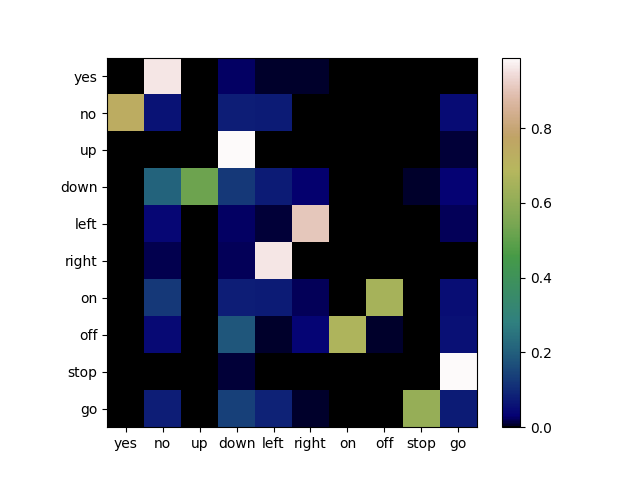
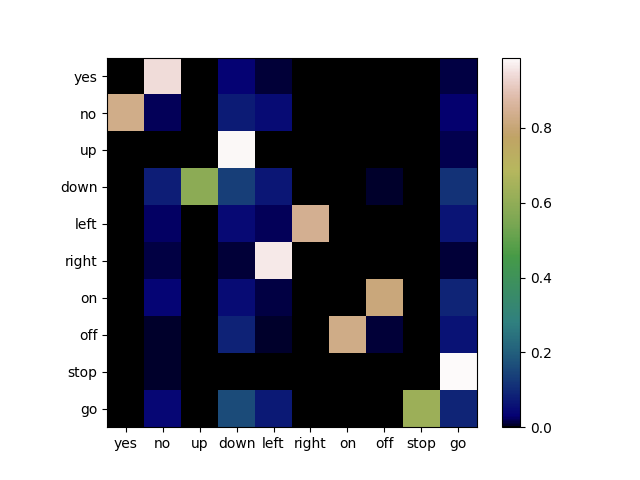
idk

diff --git a/pertubation_attack.py b/pertubation_attack.py
@@ -16,12 +16,12 @@ import numpy as np
 import torch
 import audioModel as am
 from torch.utils.mobile_optimizer import optimize_for_mobile
-
+from scipy.io import wavfile
 
 batch_size = 256
 origin_frequency = 16000
 new_frequency = 8000
-model_path = "test.ptf"
+model_path = "models/98_raw.ptf"
 
 labels = ['yes', 'no', 'up', 'down', 'left', 'right', 'on', 'off', 'stop', 'go']
 
@@ -105,10 +105,9 @@ while True:
         for p in range(0, pertubation_results[batch_number].shape[0]):
             new_prediction = audioModel.predict(pertubation_results[batch_number][p], attack_model, device, transform, importDataset.index_to_label, perform_transform=False)
             pertubated_label.append(new_prediction)
-        
+
         batch_number += 1
         print("batch: " + str(batch_number))
-        
     except StopIteration:
         print("end")
         break
@@ -136,11 +135,8 @@ for i in range(0, len(pertubated_label)):
     correct_pertubated_dict[correct_label[i]][2] += 1
     if(correct_pertubated_dict[correct_label[i]][0] == pertubated_label[i]):
         correct_pertubated_dict[correct_label[i]][1] += 1
-
-
-print("Total misclassifications:")
-for key in correct_pertubated_dict:
-    print(key + ": " + str(correct_pertubated_dict[key][1]) + " / " + str(correct_pertubated_dict[key][2]))
+    else:
+        print(i)
 
 output_y = [[0] * 10 for i in range(0, 10)]
 for p in range(0, len(pertubated_label)):
@@ -161,17 +157,36 @@ plt.imshow(graph_data, cmap='gist_earth', interpolation='nearest')
 plt.xticks(range(0, 10), labels=labels)
 plt.yticks(range(0, 10), labels=labels)
 plt.colorbar()
-plt.show()
-fig.savefig("pertubated_part_one.png")
+# plt.show()
+fig.savefig("graphs/pertubated_part_one.png")
 
-    # if(correct_label[i] != pertubated_label[i]):
-        # mismatches += 1
-    # if(pertubated_label[i] == "left"):
-    #     left_count += 1
-    # if(correct_label[i] == "right"):
-    #     right += 1
-#print(correct_label[i] + " --> " + pertubated_label[i])
-# print("mismatches: " + str(mismatches))
-# print("left count: " + str(left_count))
-# print("right count: " + str(right))
-# print(len(pertubated_label))
+index = -1
+folder = "part_1_pertubations/"
+
+
+for batch in range(len(pertubation_results)):
+    for p in range(len(pertubation_results[batch])):
+        index += 1
+        if (correct_pertubated_dict[correct_label[index]][0] == pertubated_label[index]):
+            print("Saving: " + str(index) +  " / " + str(len(pertubated_label)))
+            sub_folder = correct_label[index] + "_" + pertubated_label[index] + "/"
+            save_file = correct_label[index] + "_" + pertubated_label[index] + "_" + str(index) + ".wav"
+            
+            with wave.open(folder + sub_folder + save_file, 'wb') as wave_file:
+                wave_file.setnchannels(1)  # mono audio
+                wave_file.setsampwidth(2)  # 16-bit audio
+                wave_file.setframerate(16000)  # sampling rate
+                wave_file.setnframes(pertubation_results[batch][p][0].shape[0])  # number of frames
+                wave_file.writeframes((pertubation_results[batch][p].cpu().numpy()[0] * 32767).astype(np.int16).tobytes())  # write audio data
+
+        # plt.plot(pertubation_results[batch][p].cpu().numpy()[0])
+        # plt.show()
+        # print(audioModel.predict(pertubation_results[batch][p], attack_model, device, transform, importDataset.index_to_label, perform_transform=False))
+        # plt.plot(np.array(pertubation_results[batch][p].cpu()[0]))
+        # plt.show()
+        # exit(0)
+
+
+print("Total misclassifications:")
+for key in correct_pertubated_dict:
+    print(key + ": " + str(correct_pertubated_dict[key][1]) + " / " + str(correct_pertubated_dict[key][2]))

diff --git a/RirDataTest.py b/RirDataTest.py
@@ -2,12 +2,16 @@ import os
 import torch
 import torchaudio
 import matplotlib.pyplot as plt
-#import pandas as pd
 import time
 from IPython.display import Audio, display
 import wave
 import numpy as np
 import os, random
+
+
+max_fork = 64
+
+labels = ['yes', 'no', 'up', 'down', 'left', 'right', 'on', 'off', 'stop', 'go']
 
 rir_data = ['RIRdataset/RIR_MED_7_2.wav', 'RIRdataset/RIR_MED_7_16.wav', 
             'RIRdataset/RIR_MED_7_23.wav', 'RIRdataset/RIR_ROOM_TESTED.wav']
@@ -30,8 +34,15 @@ fork_count = 0
 for file in files:
     with open(file) as f:
         for file in f:
+
+            try:
+                labels.index(file.split("/")[0])
+            except ValueError:
+                continue
+            
             fork_count += 1
             current += 1
+            print(current , "/" , total_fork)
             pid = os.fork()
             if(pid == 0):
                 input_file = prefix + file.strip("\n")
@@ -39,10 +50,9 @@ for file in files:
                 RirConvolve(input_file, output_file)
                 exit(0)
             else:
-                if(fork_count >= 32):
+                if(fork_count >= max_fork):
                     os.wait()
                     fork_count -= 1
-                    print(current , "/" , total_fork)
 
 while(fork_count != 0):
     os.wait()

diff --git a/pertubation.py b/pertubation.py
@@ -177,7 +177,7 @@ class M5(nn.Module):
 
 
                                             # .01, .001
-def attack(model, device, batch, target = None, eps=.01, alpha=0.001, iters=300, targeted=False):
+def attack(model, device, batch, target = None, eps=.01, alpha=0.001, iters=200, targeted=False):
     
     batch = batch.to(device)
     target = target.to(device)
@@ -196,7 +196,7 @@ def attack(model, device, batch, target = None, eps=.01, alpha=0.001, iters=300,
         model.zero_grad()
         cost = loss(outputs.squeeze(), target).to(device)
         cost.backward()
-        adv_batch = batch - alpha*batch.grad.sign()
+        adv_batch = batch - alpha * batch.grad.sign()
         
         eta = torch.clamp(adv_batch - ori_batch, min=-eps, max=eps)
         batch = torch.clamp(ori_batch + eta, min=-1, max=1).detach_()

diff --git a/wav_visual.py b/wav_visual.py
@@ -1,0 +1,25 @@
+import wave
+import matplotlib.pyplot as plt
+import numpy as np
+
+file_path = "output.wav"
+# file_path = "SpeechCommands/speech_commands_v0.02/original_backup/right/0a2b400e_nohash_0.wav"
+
+wave_file = wave.open(file_path, 'rb')
+
+frames = wave_file.readframes(-1)
+sample_rate = wave_file.getframerate()
+
+audio_data = np.frombuffer(frames, dtype=np.int16)
+wave_file.close()
+
+plt.figure()
+plt.plot(audio_data)
+plt.xlabel('Time')
+plt.ylabel('Amplitude')
+plt.title('Waveform')
+
+
+plt.show()
+
+
